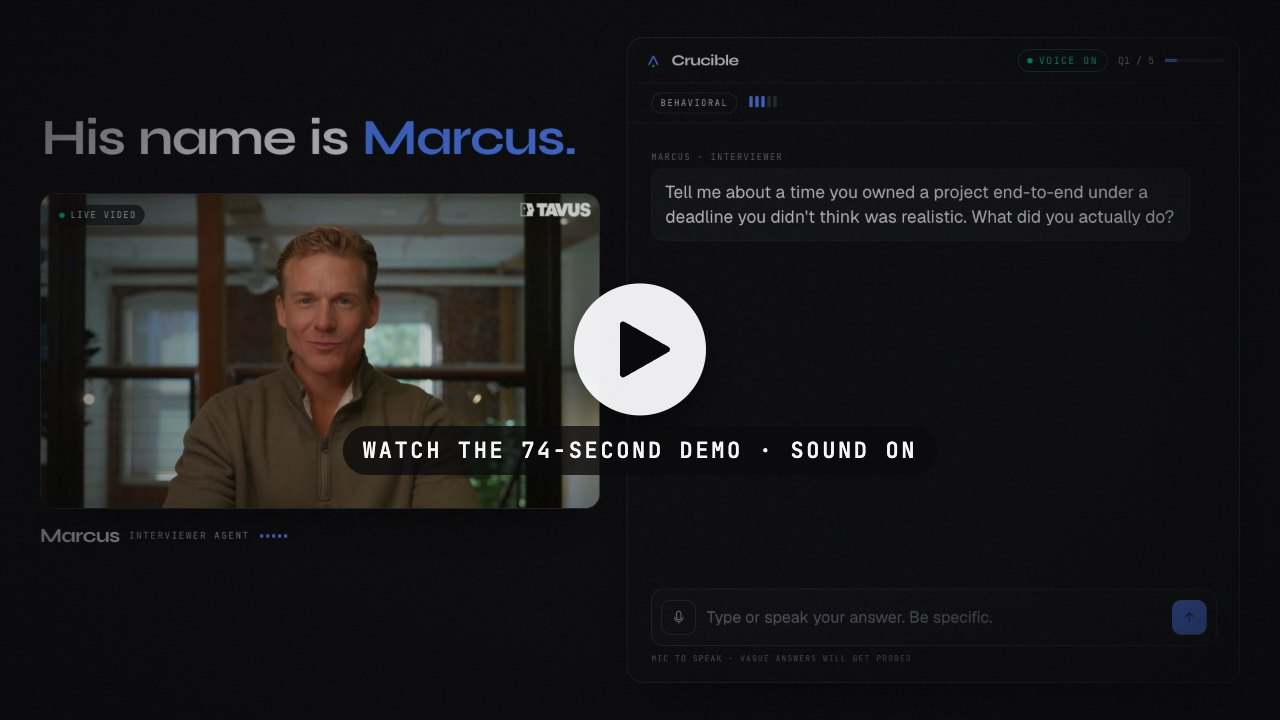
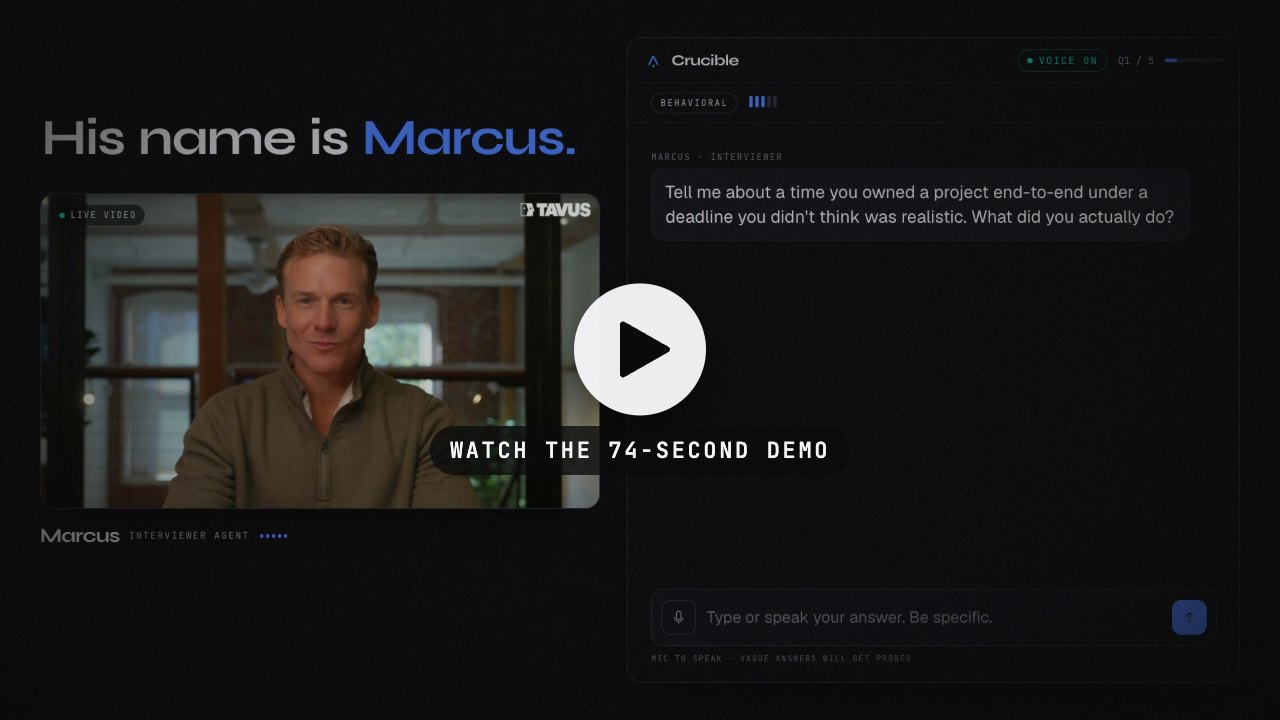
docs: drop the sound-on note from the README demo

Changed region(s): [[0.25, 0.5806, 0.7188, 0.6722]]

diff --git a/README.md b/README.md
@@ -4,9 +4,9 @@ A mock interviewer that talks to you, remembers what you got wrong last time, an
 
 Live app: https://dvbk879zy1q2l.cloudfront.net
 
-[![Watch the 74-second demo of Crucible (sound on)](docs/media/demo-thumbnail.jpg)](https://www.youtube.com/watch?v=BLeKX64la3o)
+[![Watch the 74-second demo of Crucible](docs/media/demo-thumbnail.jpg)](https://www.youtube.com/watch?v=BLeKX64la3o)
 
-**Demo (74 s, sound on):** https://www.youtube.com/watch?v=BLeKX64la3o
+**Demo (74 s):** https://www.youtube.com/watch?v=BLeKX64la3o
 
 ## Why I built this
 
